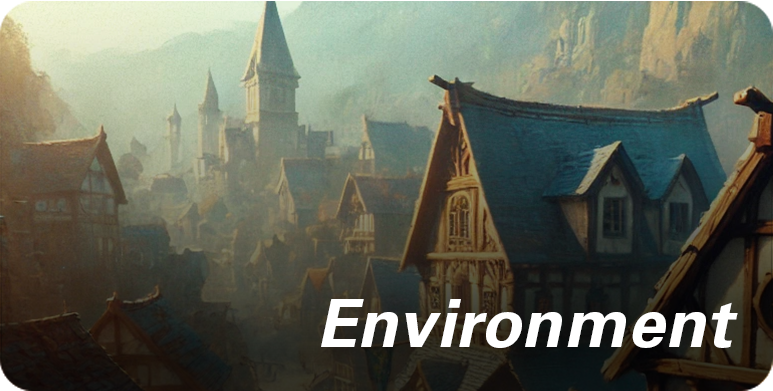
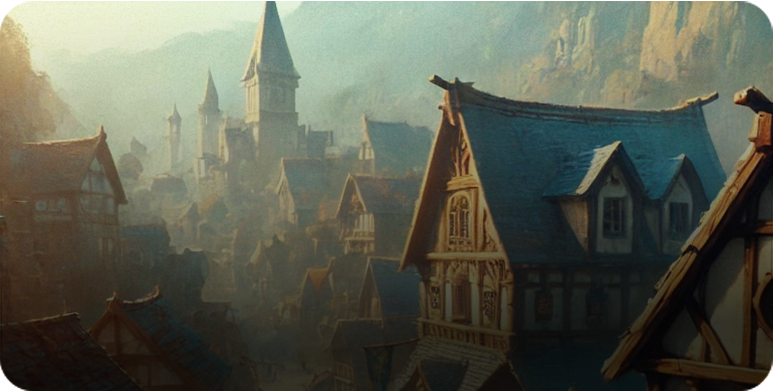
Added cards and tweaked index page

Changed region(s): [[0.4036, 0.7673, 0.9625, 0.89]]

diff --git a/src/pages/create/index.js b/src/pages/create/index.js
@@ -3,34 +3,29 @@
 import CharacterForm from "@/components/CharacterForm";
 import LocationsForm from "@/components/LocationForm";
 import MapForm from "@/components/MapForm";
-import OptionCard from "@/components/OptionCard";
 import QuestForm from "@/components/QuestForm";
 import { useState } from "react";
 
-const options = [
+const createOptions = [
   {
     id: "characters",
-    title: "Characters",
-    description: "Generate unique characters for your tabletop campaigns.",
-    image: "/placeholder/card_character.png",
+    title: "Character",
+    image: "/placeholder/card_character.png", // Use the first image
   },
   {
     id: "locations",
-    title: "Locations",
-    description: "Create breathtaking locations for your story.",
-    image: "/placeholder/card_environment.png",
+    title: "Environment",
+    image: "/placeholder/card_environment.png", // Use the second image
   },
   {
     id: "quests",
-    title: "Quests",
-    description: "Design epic quests to immerse your players.",
-    image: "/placeholder/card_quest.png",
+    title: "Quest",
+    image: "/placeholder/card_quest.png", // Use the third image
   },
   {
     id: "maps",
-    title: "Maps",
-    description: "Generate detailed maps for exploration.",
-    image: "/placeholder/card_map.png",
+    title: "TTG Map",
+    image: "/placeholder/card_map.png", // Use the fourth image
   },
 ];
 
@@ -46,36 +41,56 @@ function CreatePage() {
   };
 
   return (
-    <div className="p-6">
-      {/* characters */}
+    <div className="pt-4 pb-10 min-h-[calc(100vh-120px)] flex flex-col justify-center items-center">
+      {/* Conditional rendering based on selection */}
       {selectedOption === "characters" ? (
-        <CharacterForm onBack={handleGoBack} />
-      ) : /* locations */
-      selectedOption === "locations" ? (
-        <LocationsForm onBack={handleGoBack} />
-      ) : /* maps */
-      selectedOption === "maps" ? (
-        <MapForm onBack={handleGoBack} />
-      ) : /* quests */
-      selectedOption === "quests" ? (
-        <QuestForm onBack={handleGoBack} />
+        <div className="w-full max-w-5xl mx-auto px-6">
+          <CharacterForm onBack={handleGoBack} />
+        </div>
+      ) : selectedOption === "locations" ? (
+        <div className="w-full max-w-5xl mx-auto px-6">
+          <LocationsForm onBack={handleGoBack} />
+        </div>
+      ) : selectedOption === "maps" ? (
+        <div className="w-full max-w-5xl mx-auto px-6">
+          <MapForm onBack={handleGoBack} />
+        </div>
+      ) : selectedOption === "quests" ? (
+        <div className="w-full max-w-5xl mx-auto px-6">
+          <QuestForm onBack={handleGoBack} />
+        </div>
       ) : (
-        <>
+        <div className="w-full max-w-[95%] lg:max-w-[85%] xl:max-w-[80%] mx-auto px-4">
           <h1 className="text-3xl font-bold text-center mb-8">
             Choose What to Create
           </h1>
-          <div className="grid grid-cols-1 sm:grid-cols-2 md:grid-cols-3 lg:grid-cols-4 gap-6">
-            {options.map((option) => (
-              <OptionCard
+          <div className="grid grid-cols-1 md:grid-cols-2 gap-8">
+            {createOptions.map((option) => (
+              <div
                 key={option.id}
-                title={option.title}
-                description={option.description}
-                image={option.image}
-                onSelect={() => handleSelect(option.id)} // Pass the selected option's ID
-              />
+                className="relative rounded-lg overflow-hidden cursor-pointer transform transition-transform hover:scale-105 shadow-lg"
+                onClick={() => handleSelect(option.id)}
+              >
+                {/* Image Card */}
+                <div className="relative aspect-[2/1] rounded-lg overflow-hidden">
+                  {/* eslint-disable-next-line @next/next/no-img-element */}
+                  <img
+                    src={option.image}
+                    alt={option.title}
+                    className="w-full h-full object-cover"
+                  />
+                  {/* Overlay gradient */}
+                  <div className="absolute inset-0 bg-gradient-to-t from-black/80 to-transparent"></div>
+
+                  {/* Text overlay */}
+                  <div className="absolute bottom-4 right-6 text-white text-4xl font-bold">
+                    {option.title}
+                  </div>
+                </div>
+              </div>
             ))}
           </div>
-        </>
+        </div>
       )}
     </div>
   );
